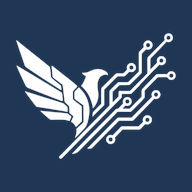
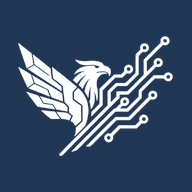
Swap in the updated MAIN Hub mark
- Trace the uploaded logo (Updatedlogo.webp) into the vector Mark
  component; file the source at public/brand/source/main-hub-mark.webp
- Regenerate transparent PNG marks, app icons and the share image

Claude-Session: https://claude.ai/code/session_01Y6wF1Et78M44JoR3L5cpxR

Changed region(s): [[0.0625, 0.1562, 0.9375, 0.8438], [0.3125, 0.375, 0.3438, 0.4062]]

diff --git a/src/components/brand/mark-path.ts b/src/components/brand/mark-path.ts
@@ -1,5 +1,5 @@
 // Vector path of the MAIN Hub eagle-and-circuit monogram.
-// Traced from the approved brand mark; viewBox is 0 0 1200 961.
-export const MARK_VIEWBOX = "0 0 1200 961";
+// Traced from the approved brand mark (public/brand/source/main-hub-mark.webp); viewBox is 0 0 1295 1022.
+export const MARK_VIEWBOX = "0 0 1295 1022";
 export const MARK_PATH =
-  "M343.3 935.9C336.2 933.9 333.8 925.4 338.5 918.9C339.9 917.0 361.4 895.0 386.3 870.0C425.6 830.5 497.7 757.4 661.2 591.4L701.9 550.1L702.2 496.7C702.5 449.0 702.7 443.1 704.2 440.9C706.1 437.9 754.1 390.2 761.3 384.1L766.1 380.0L798.3 380.0C816.0 380.0 832.3 379.7 834.5 379.3C838.1 378.8 841.9 375.4 876.8 340.6L915.0 302.5L915.0 235.0C915.0 191.0 915.4 166.2 916.1 163.7C916.8 160.9 921.1 155.7 932.3 143.9C951.4 123.7 951.1 124.0 949.8 117.0C946.7 100.4 955.4 84.8 970.7 79.0C983.7 74.1 999.6 78.2 1007.3 88.4C1013.0 95.8 1014.5 100.0 1014.5 109.0C1014.5 116.2 1014.1 118.4 1011.8 123.2C1004.8 138.1 992.2 144.3 974.0 141.7L968.5 141.0L954.2 155.0C945.9 163.1 939.3 170.4 938.5 172.4C937.2 175.4 937.0 186.4 937.0 241.7C937.0 303.7 936.8 307.7 935.1 311.5C933.8 314.2 919.7 329.0 891.9 356.6C869.1 379.2 849.4 398.3 848.0 399.1C846.0 400.2 838.4 400.6 812.0 400.8C793.6 400.9 777.4 401.3 776.1 401.6C773.3 402.2 727.1 447.1 725.3 450.9C723.8 454.1 723.5 520.7 725.0 523.0C725.8 524.3 726.2 524.3 728.2 523.0C729.5 522.2 738.9 513.0 749.1 502.5L767.7 483.5L768.3 466.5C769.0 447.9 769.4 445.5 771.8 444.5C772.8 444.1 790.4 443.8 811.0 443.9C839.2 444.0 849.0 443.7 850.6 442.7C851.8 442.1 865.1 428.9 880.0 413.5C895.0 398.1 922.1 370.9 940.2 353.0C958.3 335.1 974.0 319.1 975.0 317.5C976.9 314.6 977.0 312.4 977.0 260.5C977.0 198.1 976.3 203.0 987.6 191.5C991.5 187.7 1012.3 166.3 1034.0 144.1C1055.7 121.9 1080.1 96.9 1088.2 88.7C1096.4 80.4 1103.0 73.0 1103.0 72.2C1103.0 71.5 1102.3 68.3 1101.4 65.2C1096.9 49.7 1106.2 31.4 1121.2 26.4C1127.5 24.3 1139.9 24.8 1144.8 27.4C1157.2 33.9 1164.9 49.5 1162.0 62.5C1158.0 80.7 1139.9 91.5 1121.3 86.8C1116.7 85.7 1116.6 85.7 1113.7 89.1C1107.6 96.0 1060.9 144.5 1020.9 185.5C1011.2 195.4 1002.3 205.4 1001.1 207.7C999.1 211.8 999.0 213.1 999.0 249.0C999.0 270.4 999.4 286.0 999.9 286.0C1000.4 286.0 1011.4 275.0 1024.3 261.6L1047.8 237.2L1047.3 226.3C1046.8 216.7 1047.0 214.8 1048.8 210.6C1056.7 192.8 1076.4 185.2 1093.1 193.5C1104.6 199.3 1111.0 208.5 1111.8 220.6C1112.5 231.1 1110.3 237.5 1103.5 244.8C1094.6 254.4 1083.8 257.7 1071.0 254.6L1064.5 253.1L1035.0 282.8C984.3 333.8 924.7 396.1 920.9 401.9C916.4 408.8 862.6 462.4 858.5 464.1C856.4 465.0 845.7 465.5 824.5 465.7C797.5 466.1 793.3 466.4 792.2 467.8C791.5 468.8 791.0 472.8 790.9 478.4C790.9 483.4 790.4 489.0 789.7 490.9C788.9 493.1 776.7 506.0 752.5 530.4C732.7 550.2 699.8 583.4 679.5 604.0C659.1 624.6 623.8 660.4 601.0 683.5C563.2 721.8 497.4 788.9 451.5 836.0C404.8 884.0 355.3 933.8 353.5 934.7C350.1 936.4 346.6 936.8 343.3 935.9ZM430.5 901.0C429.3 899.1 520.4 805.9 684.0 641.8L751.5 574.1L757.8 573.4L764.0 572.7L781.8 554.2L799.5 535.8L799.5 524.1C799.5 513.3 799.7 512.1 802.4 506.7C810.4 490.9 828.8 484.3 844.8 491.5C869.2 502.4 869.0 538.4 844.6 549.6C838.7 552.3 832.7 552.8 823.0 551.6L816.5 550.8L807.2 560.4C802.0 565.6 798.0 570.5 798.2 571.2C798.6 572.2 804.3 572.6 823.5 572.8L848.4 573.0L890.8 530.8C914.7 506.9 933.8 487.1 934.6 485.3C935.7 482.8 936.0 476.7 936.0 460.0C936.0 443.7 936.4 437.1 937.4 434.7C939.0 430.8 944.3 425.1 998.6 368.4C1024.2 341.7 1042.2 323.7 1044.3 322.7C1047.4 321.2 1052.5 321.0 1084.8 321.0L1121.8 321.0L1124.8 315.7C1128.1 309.9 1132.6 305.9 1139.6 302.8C1146.7 299.7 1158.6 300.5 1166.5 304.5C1184.9 313.9 1188.2 340.2 1172.9 354.5C1166.1 360.9 1160.2 363.2 1151.0 363.4C1144.5 363.4 1142.8 363.1 1138.3 360.6C1132.7 357.5 1127.4 352.6 1123.7 347.0L1121.4 343.5L1087.7 343.5L1053.9 343.5L1036.2 361.5C1026.5 371.4 1004.9 393.3 988.3 410.1L958.0 440.6L958.0 463.6C958.0 476.2 957.6 488.2 957.1 490.2C956.5 492.7 953.7 496.8 948.5 502.7C933.8 519.3 861.1 592.7 857.6 594.4C854.6 595.8 848.6 596.0 807.3 596.0L760.4 596.0L701.5 655.8C669.1 688.6 618.7 739.6 589.5 769.0C560.4 798.5 522.8 836.6 506.0 853.8C484.8 875.6 473.3 886.6 468.3 890.0C460.9 894.9 450.1 899.1 439.6 900.9C432.2 902.3 431.3 902.3 430.5 901.0ZM541.0 862.3C541.0 861.3 593.4 807.9 693.6 706.7C732.2 667.7 759.3 641.1 761.6 640.0C765.2 638.1 767.8 638.0 813.5 638.0L861.6 638.0L889.1 610.2C904.2 595.0 925.5 573.3 936.5 562.0C947.5 550.7 966.0 531.8 977.6 520.0C1006.9 490.2 1011.3 485.2 1010.5 483.2C1004.2 466.7 1011.1 448.6 1026.5 441.0C1030.6 439.0 1033.1 438.5 1040.0 438.5C1047.3 438.5 1049.3 438.9 1054.2 441.3C1060.6 444.5 1064.8 448.7 1068.7 456.3C1071.1 460.8 1071.5 462.7 1071.5 470.0C1071.5 476.8 1071.1 479.4 1069.2 483.1C1065.9 489.8 1060.9 495.2 1054.9 498.5C1049.8 501.3 1048.9 501.5 1037.7 501.5L1025.8 501.6L1011.2 517.6C1003.1 526.5 986.8 543.6 975.0 555.6C963.2 567.6 941.8 589.4 927.5 604.0C913.2 618.6 895.4 636.7 888.0 644.4C880.6 652.0 873.1 658.9 871.3 659.6C868.7 660.7 858.6 661.0 819.0 661.0L770.0 661.0L767.2 663.8C760.0 670.6 661.4 770.7 624.5 808.5C602.0 831.6 581.6 852.4 579.3 854.7C572.2 861.8 570.2 862.4 554.8 862.8C547.1 863.0 541.0 862.8 541.0 862.3ZM699.7 828.6C691.1 825.4 684.0 818.5 679.7 809.3C676.4 802.1 676.7 790.3 680.2 783.5C683.5 777.3 689.5 771.0 695.7 767.3C699.9 764.8 701.5 764.5 709.0 764.5C713.7 764.5 719.2 764.9 721.4 765.3L725.3 766.1L737.4 753.8C744.1 747.0 757.9 732.8 768.1 722.2L786.5 703.0L792.5 702.0C795.8 701.4 820.0 701.0 847.0 701.0C873.7 701.0 899.7 701.0 904.7 701.0L914.0 701.0L928.2 686.4C945.3 669.0 946.1 667.9 944.9 663.6C943.3 658.1 943.9 648.4 946.1 642.3C949.0 634.4 957.4 626.1 965.6 623.0C981.0 617.2 1000.5 625.1 1007.3 639.9C1009.0 643.5 1009.5 646.4 1009.5 653.5C1009.5 661.3 1009.1 663.2 1006.7 668.2C1002.9 675.9 994.9 683.1 987.5 685.5C983.2 686.8 979.9 687.1 973.7 686.7C969.2 686.4 964.6 685.9 963.5 685.5C961.9 685.0 958.4 688.2 945.0 702.5C935.9 712.1 927.0 721.0 925.2 722.2C921.8 724.3 921.1 724.3 859.9 724.4L797.9 724.5L787.7 735.0C746.1 777.6 741.0 783.3 741.8 785.9C742.2 787.3 742.5 792.5 742.5 797.5C742.5 804.9 742.1 807.3 740.2 811.2C737.1 817.4 731.2 823.3 724.8 826.6C718.3 829.9 705.9 830.9 699.7 828.6ZM714.2 811.0C715.3 811.0 718.0 809.3 720.1 807.1C723.8 803.4 724.0 802.9 724.0 797.0C724.0 791.0 723.8 790.5 720.1 787.0C718.0 785.0 714.8 783.0 713.0 782.6C705.5 781.2 697.8 786.2 696.5 793.4C695.7 797.3 697.3 804.0 699.8 806.9C701.7 809.3 708.7 812.2 710.8 811.5C711.6 811.2 713.1 811.0 714.2 811.0ZM452.3 781.2C452.5 779.7 454.2 774.0 455.9 768.5C460.2 754.8 462.0 743.8 462.0 730.5L462.0 719.2L476.2 705.8C500.3 683.3 509.1 674.6 511.2 671.2C513.2 667.9 513.2 667.2 512.6 610.7C512.2 577.3 511.4 552.2 510.9 550.3C509.8 546.9 504.7 542.8 481.5 526.2C456.8 508.6 449.5 502.6 448.3 498.8C447.6 496.6 447.0 487.1 446.8 474.3C446.6 455.8 446.8 453.1 448.4 450.0C450.6 445.8 477.0 419.0 478.9 419.0C481.0 419.0 496.4 434.5 505.7 446.0C527.8 473.4 539.6 497.7 548.9 534.5C553.9 554.4 555.3 568.3 554.7 593.5C554.1 617.9 552.8 627.8 546.1 656.5C540.0 682.9 533.8 698.4 525.2 709.2C513.4 724.1 455.5 784.0 453.0 784.0C452.2 784.0 451.9 783.0 452.3 781.2ZM454.7 701.8C453.3 700.0 451.3 696.7 450.2 694.4C447.3 688.6 439.8 680.7 431.1 674.1C426.9 671.0 423.4 667.7 423.2 666.7C423.0 665.7 426.1 658.1 430.1 649.7C434.0 641.3 437.5 632.7 437.7 630.5L438.2 626.5L427.9 618.3C422.2 613.9 415.9 608.6 414.1 606.6L410.6 603.0L409.9 584.6C409.1 563.8 408.5 558.6 406.3 555.0C405.4 553.6 398.5 546.4 390.9 539.0C379.6 528.0 376.9 524.8 376.1 521.5C375.1 517.7 369.0 469.1 363.6 422.7C362.1 409.8 360.5 400.1 359.7 398.9C358.3 397.0 344.7 386.4 308.7 359.2C298.9 351.8 290.3 344.8 289.5 343.6C287.9 341.2 287.6 338.7 285.5 313.5C284.6 303.6 283.2 288.4 282.3 279.8C281.5 271.2 281.0 263.4 281.3 262.5C282.8 258.6 283.5 259.1 321.0 288.9C365.8 324.6 383.4 338.5 392.0 345.2C414.8 363.1 427.3 373.0 436.0 380.4C467.1 406.6 467.2 406.7 466.2 411.6C466.0 412.8 459.9 420.0 452.8 427.6C445.6 435.2 438.9 443.2 437.9 445.4C436.2 449.0 436.0 452.3 436.0 475.3C436.0 494.9 436.3 501.8 437.4 504.3C439.3 509.0 443.8 512.6 488.6 546.3C493.1 549.7 497.3 553.3 498.0 554.4C499.8 557.2 500.9 584.6 500.9 627.7L501.0 663.9L497.8 667.6C496.0 669.6 491.9 673.8 488.6 676.9C463.3 700.8 458.7 705.0 458.0 705.0C457.5 705.0 456.0 703.5 454.7 701.8ZM983.6 667.4C987.6 665.5 990.7 660.9 991.6 655.3C993.3 644.3 980.9 635.4 971.1 640.5C969.5 641.3 967.0 643.4 965.5 645.2C963.1 648.1 962.8 649.0 963.2 654.6C963.6 661.3 965.0 663.8 970.5 667.1C974.2 669.4 979.1 669.5 983.6 667.4ZM401.0 659.9C398.0 658.8 391.0 656.9 385.5 655.7C375.9 653.6 373.4 653.5 324.3 653.4L273.2 653.4L268.8 650.5C266.5 649.0 262.5 646.0 260.0 644.0C239.7 627.3 233.4 621.8 218.2 607.7C207.2 597.5 201.0 591.1 201.2 590.1C201.7 588.0 199.2 587.8 265.0 594.4C295.5 597.5 328.8 600.6 339.0 601.5C367.2 603.8 387.0 605.9 392.3 607.1C397.1 608.2 404.6 613.4 417.2 624.2C424.4 630.4 424.5 631.4 418.5 646.1C411.5 663.5 411.4 663.6 401.0 659.9ZM579.0 624.2C579.0 615.1 580.7 601.4 582.2 598.7C582.9 597.3 596.4 583.1 612.2 567.0L641.0 537.8L641.0 485.5C641.0 451.6 641.4 431.2 642.1 427.8C643.2 422.5 643.3 422.4 694.3 371.4C722.5 343.3 747.1 319.3 749.0 318.1C752.3 316.1 753.8 316.0 776.7 316.0L800.8 316.0L806.2 311.1C809.2 308.4 815.4 302.3 820.1 297.5L828.5 288.8L828.5 276.7C828.5 265.4 828.7 264.1 831.3 258.8C836.8 247.5 848.0 240.7 861.1 240.6C867.9 240.5 869.5 240.9 875.6 244.0C888.4 250.6 894.7 261.9 893.8 276.6C893.2 284.9 890.8 290.0 883.9 296.8C877.1 303.5 872.0 305.5 862.0 305.5C857.3 305.5 852.0 305.2 850.2 304.8C847.0 304.1 846.4 304.5 831.0 319.3C822.1 327.7 813.5 335.0 811.7 335.7C809.6 336.5 800.7 336.9 785.3 336.9L762.2 337.0L757.3 340.9C748.6 347.9 665.1 432.4 664.0 435.3C663.4 437.1 663.0 457.1 663.0 492.6L663.0 547.0L621.5 588.5C598.7 611.3 579.8 630.0 579.5 630.0C579.2 630.0 579.0 627.4 579.0 624.2ZM377.5 592.5C369.2 590.6 349.0 587.0 332.5 584.5C316.0 582.0 296.4 578.8 289.0 577.5C281.6 576.1 260.6 572.8 242.5 570.0C224.3 567.3 205.7 564.3 201.0 563.5C196.3 562.7 187.8 561.3 182.0 560.5C176.3 559.6 170.5 558.3 169.3 557.5C168.1 556.7 161.5 548.7 154.7 539.8C130.6 508.1 111.4 482.4 108.0 477.5C106.2 474.8 100.7 467.2 95.8 460.7C87.5 449.5 86.3 447.0 89.5 447.0C90.7 447.0 109.1 452.5 134.0 460.5C144.1 463.7 173.9 473.1 216.5 486.5C227.5 490.0 252.0 497.6 271.0 503.5C290.0 509.4 312.2 516.3 320.5 519.0C328.8 521.7 340.9 525.5 347.5 527.6C362.9 532.3 369.1 535.5 377.1 542.7C380.6 545.9 385.4 550.1 387.7 552.0C395.1 558.4 396.2 561.3 396.7 576.8C397.2 590.6 396.4 596.1 393.8 595.9C393.1 595.9 385.8 594.3 377.5 592.5ZM580.6 565.8C580.3 564.0 579.5 559.6 578.9 556.0C577.8 549.1 571.3 525.4 567.8 515.5C553.6 474.7 538.5 450.6 506.4 417.1C500.7 411.1 496.0 405.6 496.0 404.9C496.0 404.1 497.6 401.9 499.6 400.0C505.5 394.1 510.6 385.2 519.4 365.5C528.3 345.4 530.6 339.0 529.7 336.8C529.4 336.0 526.3 333.9 522.7 332.2C514.9 328.3 506.9 321.4 504.6 316.5C502.4 312.0 503.2 310.8 507.8 311.6C513.9 312.6 533.1 310.2 540.9 307.5C544.9 306.2 555.4 301.9 564.3 298.1C583.7 289.8 595.1 286.3 608.3 284.8C625.8 282.7 645.9 286.7 664.5 296.0C681.6 304.5 689.0 312.9 689.0 323.8C689.0 329.4 688.5 329.8 684.2 327.6C679.1 325.0 670.2 324.7 661.7 326.9C650.6 329.8 644.6 333.3 636.0 342.0C616.3 361.7 611.3 389.5 618.1 440.5C620.8 460.8 621.0 483.7 618.7 496.7C614.3 521.1 602.3 546.8 587.4 563.8C584.9 566.6 582.5 569.0 582.0 569.0C581.5 569.0 580.9 567.5 580.6 565.8ZM837.7 533.3C842.4 531.1 845.0 526.7 845.0 520.7C845.0 511.8 840.0 506.0 832.3 506.0C825.0 506.0 819.7 509.8 817.9 516.3C816.6 521.2 817.5 525.2 820.8 529.2C825.5 534.8 831.6 536.3 837.7 533.3ZM338.5 510.6C275.2 487.0 218.1 464.8 147.0 436.3C125.8 427.8 106.6 419.8 104.4 418.5C102.1 417.2 98.9 414.5 97.1 412.5C93.8 408.7 84.6 391.0 75.5 371.0C72.6 364.7 61.1 339.2 49.8 314.5C27.5 265.5 25.8 261.5 26.7 260.6C28.2 259.1 31.8 260.3 38.4 264.6C45.0 268.8 112.0 309.1 130.9 320.2C135.5 322.9 145.4 328.8 152.9 333.4C160.4 338.0 171.4 344.7 177.5 348.2C195.9 359.0 283.4 412.0 300.5 422.6C309.3 428.1 322.8 436.4 330.5 440.9C346.1 450.2 354.4 456.1 355.9 458.9C356.5 459.9 357.4 463.9 358.0 467.6C359.2 475.9 362.0 505.7 362.0 510.4C362.0 514.1 359.9 517.0 357.2 516.9C356.3 516.9 347.9 514.0 338.5 510.6ZM1047.8 483.0C1055.7 478.2 1056.1 462.6 1048.5 457.6C1041.8 453.2 1031.3 456.0 1027.7 463.0C1024.1 469.9 1026.6 479.4 1033.0 483.4C1036.6 485.6 1043.8 485.4 1047.8 483.0ZM345.0 435.3C344.2 434.9 335.0 429.0 324.5 422.1C314.1 415.2 298.4 405.0 289.7 399.5C242.8 369.7 152.6 310.5 119.9 288.0C96.9 272.1 91.6 267.9 88.5 263.2C84.9 257.7 25.0 83.9 25.0 78.8C25.0 76.1 26.8 75.7 29.8 77.6C31.3 78.6 37.5 83.5 43.5 88.5C49.5 93.6 69.6 109.7 88.0 124.4C106.4 139.2 127.6 156.1 135.0 162.0C142.4 168.0 155.2 178.2 163.5 184.7C180.6 198.2 217.2 227.6 259.8 262.1C263.2 264.9 266.6 268.3 267.4 269.8C269.5 273.9 270.9 283.8 275.0 322.9C276.1 333.5 277.7 343.7 278.4 345.5C279.9 349.1 286.1 354.6 308.5 372.5C334.5 393.2 346.5 403.1 347.8 405.0C349.7 407.6 352.2 430.3 351.0 433.5C350.1 435.9 348.2 436.5 345.0 435.3ZM1157.7 345.1C1163.4 342.5 1165.3 338.5 1164.8 330.8C1164.4 325.8 1163.9 324.4 1161.2 321.7C1158.2 318.8 1157.4 318.5 1151.4 318.5C1145.1 318.5 1144.7 318.6 1141.4 322.2C1134.3 330.0 1137.6 343.1 1147.4 345.9C1152.0 347.2 1153.1 347.1 1157.7 345.1ZM868.7 285.9C873.0 283.2 875.0 279.3 875.0 273.4C875.0 264.9 869.5 259.0 861.5 259.0C855.4 259.0 851.4 261.2 849.0 266.0C842.1 279.5 856.1 293.6 868.7 285.9ZM1086.6 234.9C1092.7 231.2 1094.9 221.6 1091.0 215.3C1087.3 209.2 1078.8 207.2 1072.1 210.8C1064.2 215.0 1062.7 226.0 1069.1 232.6C1074.5 238.1 1080.0 238.9 1086.6 234.9ZM989.9 122.3C1001.3 113.7 996.8 96.9 982.7 95.3C976.4 94.6 971.7 97.5 969.4 103.5C965.2 114.6 972.3 125.7 982.9 124.7C985.3 124.4 988.4 123.3 989.9 122.3ZM1137.0 69.5C1146.2 64.7 1147.5 52.2 1139.5 45.1C1127.8 34.9 1111.1 51.5 1119.6 64.8C1123.2 70.3 1131.2 72.5 1137.0 69.5Z";
+  "M370.4 980.6C365.2 977.9 362.6 974.2 363.3 970.4C363.4 969.2 363.9 967.8 364.2 967.2C364.6 966.7 369.4 961.6 375.0 956.0C380.6 950.4 391.5 939.1 399.2 931.0C406.9 922.9 417.8 911.7 423.4 906.0C429.0 900.4 438.1 891.1 443.6 885.5C449.1 879.9 500.1 828.6 556.9 771.5C650.7 677.4 682.6 645.4 721.2 606.5C728.4 599.3 735.9 591.9 737.9 590.1C739.9 588.3 741.9 586.2 742.3 585.4C742.9 584.2 743.0 576.1 743.0 529.4C743.0 475.8 743.0 474.8 744.0 472.8C744.9 470.8 761.1 454.3 770.0 446.2C778.6 438.3 802.7 414.8 804.0 412.9C804.6 412.2 806.0 411.0 807.2 410.3L809.4 409.0L844.3 409.0C866.1 409.0 879.9 408.8 881.0 408.5C882.2 408.2 884.9 406.1 888.8 402.6C896.0 396.1 960.5 331.8 961.7 329.9C962.5 328.6 962.6 326.1 962.6 290.4C962.5 269.4 962.7 237.5 963.0 219.4L963.4 186.6L964.8 184.0C967.6 178.8 975.9 169.8 992.1 154.1C995.6 150.7 998.8 147.2 999.2 146.2C1000.0 144.6 1000.0 144.4 999.0 141.6C996.6 134.9 997.2 126.3 1000.4 119.0C1002.2 114.7 1007.7 106.9 1010.2 104.8C1014.5 101.3 1022.5 98.3 1029.2 97.7C1038.4 96.8 1050.5 101.5 1056.9 108.3C1063.8 115.6 1066.4 122.8 1065.9 133.6C1065.6 140.6 1064.3 144.7 1061.2 149.4C1055.9 157.2 1049.5 162.0 1041.0 164.4C1037.4 165.4 1025.8 165.5 1021.9 164.6C1019.2 163.9 1019.1 163.9 1016.6 165.2C1013.8 166.8 1002.4 177.8 996.8 184.5C987.7 195.2 986.4 196.9 986.0 198.5C985.7 199.6 985.5 226.4 985.5 270.2L985.5 340.2L976.6 349.0C971.7 353.8 951.7 373.9 932.0 393.7C912.3 413.4 895.3 430.2 894.1 430.8L892.0 432.1L855.9 432.3L819.8 432.5L817.9 433.7C815.9 434.8 790.3 459.5 782.0 468.2C779.4 471.0 775.3 475.1 772.9 477.4C765.9 484.1 766.5 481.1 766.6 513.8C766.6 529.2 766.4 545.4 766.2 549.8C765.7 561.9 765.4 561.9 778.9 548.9C793.8 534.6 809.5 518.4 810.5 516.5C811.3 515.0 811.5 512.4 812.0 496.0C812.5 481.4 812.7 477.0 813.3 476.1C813.9 475.2 814.5 475.0 817.1 475.0C818.8 475.0 837.0 475.0 857.5 475.0C887.4 475.0 895.0 474.9 895.9 474.3C898.5 472.9 944.7 426.9 964.1 406.5C968.9 401.4 981.7 388.6 992.5 378.0C1014.1 356.7 1024.8 345.5 1026.1 342.5C1027.0 340.7 1027.0 337.6 1026.5 284.8C1026.1 240.4 1026.1 228.6 1026.6 226.9C1027.3 224.5 1028.6 223.2 1110.6 141.1C1136.9 114.7 1158.8 92.6 1159.2 91.8C1160.0 90.7 1160.0 90.2 1159.5 87.1C1159.1 85.0 1159.0 80.7 1159.1 75.2C1159.3 67.7 1159.5 66.4 1160.5 64.0C1163.6 56.9 1169.7 49.9 1175.6 46.9C1181.7 43.9 1185.7 42.9 1192.5 42.8C1201.4 42.8 1207.0 44.3 1213.1 48.3C1218.8 52.2 1221.9 56.1 1225.3 63.5C1227.1 67.7 1227.2 67.9 1227.4 75.1C1227.6 81.1 1227.5 83.3 1226.8 86.1C1223.7 98.6 1213.9 108.0 1201.2 110.5C1197.6 111.2 1186.6 110.9 1181.9 110.0C1176.3 108.9 1186.2 99.6 1094.0 191.6C1069.8 215.7 1050.7 235.2 1050.3 236.0C1049.8 237.2 1049.7 245.5 1049.9 276.2C1050.1 317.4 1050.1 317.0 1052.5 317.0C1054.1 317.0 1105.7 265.0 1106.5 262.7C1107.0 261.2 1106.9 260.4 1105.9 257.4C1105.0 254.3 1104.8 252.7 1104.8 247.2C1104.9 240.7 1104.9 240.7 1106.9 236.1C1113.6 220.9 1123.9 214.0 1139.9 214.0C1150.0 214.0 1157.6 217.0 1164.0 223.5C1170.1 229.6 1172.8 235.2 1174.0 244.1C1175.5 254.6 1172.2 264.8 1164.9 272.2C1161.8 275.4 1160.4 276.3 1155.5 278.7C1148.3 282.1 1145.9 282.7 1138.0 282.7C1133.2 282.7 1131.3 282.6 1129.6 281.9C1128.4 281.4 1126.6 281.0 1125.5 281.0C1122.5 281.0 1119.6 283.7 1092.2 312.0C1086.2 318.2 1077.5 326.8 1073.0 331.1C1068.5 335.4 1043.9 359.9 1018.5 385.6C938.8 466.1 907.8 496.7 904.8 498.4C903.4 499.2 900.3 499.3 871.5 499.4C854.0 499.4 839.2 499.6 838.6 499.8C836.5 500.2 836.2 502.0 835.8 514.2C835.5 522.2 835.2 526.1 834.8 527.0C834.1 528.3 830.9 531.5 822.2 539.6C819.4 542.1 796.3 565.3 770.7 591.0C707.8 654.2 698.6 663.5 685.5 676.3C679.3 682.3 667.2 694.6 658.7 703.5C650.1 712.4 638.4 724.4 632.7 730.0C614.9 747.6 600.8 761.7 570.8 792.3C554.9 808.5 532.7 830.8 521.5 841.8C489.0 873.8 419.7 943.8 400.6 963.8C390.2 974.6 387.9 976.8 383.6 979.5C381.1 981.1 380.5 981.3 376.5 981.4C373.2 981.5 371.9 981.3 370.4 980.6ZM460.8 946.7C460.6 946.5 460.5 945.8 460.5 945.2C460.5 944.2 461.3 943.4 471.0 934.2C473.1 932.3 476.0 929.4 477.5 927.7C480.4 924.5 492.7 911.5 503.5 900.2C507.2 896.3 516.2 887.3 523.4 880.2C530.7 873.1 540.9 862.9 546.2 857.5C558.5 844.9 579.2 824.3 596.5 807.2C604.1 799.8 616.9 786.9 625.0 778.5C633.1 770.2 642.4 760.7 645.7 757.5C653.9 749.6 670.3 733.2 684.8 718.5C691.4 711.8 701.7 701.6 707.8 695.9C713.9 690.2 724.7 679.6 731.8 672.2C745.5 658.1 767.5 635.9 783.0 620.7C793.5 610.4 794.8 609.5 800.2 609.5C802.6 609.5 804.3 609.2 805.7 608.5C807.5 607.7 819.7 595.5 828.6 585.6C829.6 584.6 833.1 581.6 836.5 579.0C844.0 573.3 844.4 572.6 843.6 567.1C842.8 562.3 842.8 552.6 843.5 548.7C844.5 543.7 847.4 538.3 851.7 533.6C859.4 525.4 867.2 522.0 878.5 522.0C881.9 522.0 885.2 522.3 886.5 522.7C892.7 524.6 900.6 529.3 903.1 532.6C907.8 538.8 911.6 551.8 910.7 558.7C910.5 560.1 909.4 562.9 908.1 565.5C901.9 577.2 892.3 586.8 884.8 588.7C880.9 589.7 871.0 589.7 865.9 588.8C863.0 588.2 861.6 588.2 860.6 588.5C859.9 588.8 855.4 592.9 850.6 597.7C841.8 606.4 840.9 607.9 843.0 609.0C844.6 609.9 891.7 609.7 893.4 608.8C894.1 608.4 899.1 603.7 904.4 598.4C938.5 564.1 953.6 549.1 966.5 536.5C984.7 518.8 983.8 519.8 985.4 516.6L986.7 513.9L987.0 491.3C987.3 466.7 987.4 466.3 990.3 462.8C991.1 461.9 1003.3 449.5 1017.5 435.3C1031.7 421.2 1049.0 403.9 1055.9 396.9C1062.9 390.0 1076.7 376.2 1086.4 366.4L1104.3 348.6L1108.0 348.3C1110.1 348.1 1128.1 348.0 1148.1 348.1L1184.4 348.2L1185.6 347.1C1186.3 346.5 1187.5 344.7 1188.3 343.2C1190.3 339.3 1196.4 333.7 1201.4 331.1C1208.4 327.4 1216.3 326.0 1223.3 327.0C1232.9 328.4 1239.5 332.2 1245.5 339.7C1250.5 346.1 1252.6 352.3 1252.6 360.8C1252.6 366.8 1252.1 368.8 1249.1 375.0C1244.9 383.7 1235.6 391.5 1227.3 393.3C1223.4 394.2 1213.0 394.1 1209.5 393.3C1202.2 391.6 1194.8 386.0 1188.4 377.5C1186.9 375.4 1185.3 373.4 1184.9 373.1C1184.4 372.7 1175.1 372.5 1150.2 372.4C1111.3 372.2 1115.7 371.7 1110.0 377.5C1108.2 379.3 1100.6 386.6 1093.1 393.8C1074.9 411.0 1031.7 454.4 1015.2 472.0C1009.9 477.6 1010.3 475.4 1010.1 502.0C1010.0 516.4 1009.8 525.7 1009.5 526.5C1009.2 527.2 1003.3 533.3 996.4 540.0C989.5 546.8 982.8 553.4 981.6 554.7C980.3 556.1 964.6 571.8 946.7 589.7C928.9 607.6 912.1 624.5 909.6 627.3C905.3 632.0 904.8 632.4 902.4 632.9C900.4 633.4 887.2 633.5 852.1 633.5C797.9 633.4 803.3 633.0 799.1 637.9C797.9 639.2 752.4 684.9 697.9 739.5C643.4 794.1 590.6 847.0 580.8 857.2C519.8 919.4 503.2 935.1 494.9 938.3C492.9 939.0 489.9 940.2 488.2 940.8C481.8 943.4 473.6 945.9 470.2 946.5C466.1 947.1 461.3 947.2 460.8 946.7ZM585.5 907.1C576.8 907.0 575.0 906.7 575.0 905.4C575.0 904.6 579.7 899.9 587.4 893.2C591.5 889.5 595.1 886.2 595.4 885.8C596.5 883.7 665.6 813.3 696.9 782.3C705.3 774.0 725.2 754.2 741.2 738.3C757.2 722.4 771.7 708.1 773.5 706.6C775.3 705.0 782.8 697.6 790.2 690.2C797.7 682.7 804.5 676.2 805.4 675.8C806.8 675.1 807.5 675.0 809.3 675.5C810.8 675.8 826.3 676.0 858.6 676.0L905.8 676.0L908.3 674.4C911.0 672.7 913.4 670.3 935.1 648.0C943.3 639.6 954.6 628.1 960.3 622.5C966.1 616.9 973.2 609.7 976.2 606.5C979.2 603.3 987.8 594.7 995.2 587.2C1011.3 571.1 1034.8 547.3 1039.9 541.9C1041.9 539.8 1048.2 533.6 1054.0 528.2C1060.1 522.4 1064.7 517.7 1064.8 517.0C1065.0 516.4 1064.9 514.9 1064.5 513.8C1062.2 506.0 1063.0 495.3 1066.5 488.5C1067.9 485.8 1072.9 479.6 1075.7 477.1C1082.2 471.4 1094.5 468.8 1104.7 470.9C1116.9 473.5 1125.3 480.7 1129.3 491.8C1131.4 497.6 1131.7 508.7 1129.9 514.8C1128.7 518.7 1126.1 523.9 1124.2 526.0C1121.7 528.8 1115.0 533.8 1111.8 535.3C1105.8 538.0 1094.6 539.0 1088.2 537.3C1084.0 536.2 1081.9 536.3 1080.2 537.6C1077.7 539.4 1008.6 608.1 997.2 620.0C993.9 623.4 984.9 632.4 977.2 640.0C969.5 647.6 962.0 655.1 960.5 656.8C959.0 658.4 951.7 666.0 944.2 673.8C936.8 681.5 928.9 689.7 926.8 692.0C924.7 694.3 921.8 697.0 920.4 698.0L917.9 699.8L909.6 700.0C905.0 700.2 881.8 700.4 858.0 700.4L814.8 700.5L811.5 702.7C809.5 704.1 799.6 713.8 785.0 728.6C772.2 741.5 727.8 786.2 686.2 827.8C611.4 902.7 610.7 903.5 607.0 905.2C602.7 907.2 600.7 907.4 585.5 907.1ZM745.7 873.5C739.4 872.6 734.7 870.3 729.0 865.6C721.8 859.5 718.1 852.8 717.2 844.0C716.7 838.9 718.1 830.5 720.2 826.2C725.3 815.9 735.0 807.9 744.9 805.8C749.6 804.8 757.1 804.8 760.3 805.7C766.2 807.5 768.2 806.5 776.5 797.2C779.6 793.7 785.8 787.4 790.1 783.1C797.8 775.5 807.0 766.3 823.8 749.2L831.8 741.1L837.0 740.9C839.9 740.7 868.3 740.7 900.0 740.9L957.8 741.1L960.4 739.8C962.9 738.5 965.8 735.7 986.2 714.8C989.9 710.9 993.2 707.2 993.3 706.5C993.5 705.8 993.4 704.0 993.1 702.5C991.7 696.2 991.4 693.5 991.7 688.5C992.0 683.5 992.1 683.0 994.3 678.8C997.7 671.8 1005.5 663.5 1010.8 661.0C1018.2 657.5 1029.9 657.2 1038.6 660.3C1046.6 663.1 1055.2 671.5 1057.9 679.1C1059.8 684.8 1060.2 686.9 1060.2 693.0C1060.3 700.3 1059.7 703.1 1056.9 709.0C1054.0 715.0 1049.1 719.9 1042.5 723.2C1035.9 726.5 1029.5 727.2 1017.4 725.9C1012.7 725.5 1011.9 725.5 1010.3 726.3C1007.6 727.5 1001.5 733.4 992.2 743.8C982.9 754.1 973.9 763.0 971.6 764.2C970.1 765.0 964.9 765.0 906.5 765.0C852.3 765.0 842.8 765.1 841.6 765.7C840.0 766.5 813.5 793.1 803.2 804.3C791.8 816.6 787.5 821.3 785.6 823.7C783.7 826.2 783.7 826.5 785.0 832.8C786.3 839.1 784.9 849.0 781.7 855.0C774.2 869.3 761.5 875.8 745.7 873.5ZM755.8 852.8C759.2 851.8 762.7 848.7 763.8 845.6C764.4 844.1 764.7 841.9 764.7 839.0C764.7 835.2 764.6 834.5 763.2 832.0C760.4 826.9 755.8 825.0 748.4 825.6C741.1 826.3 736.4 832.5 737.1 840.5C738.0 849.8 746.7 855.5 755.8 852.8ZM483.6 826.7C482.6 826.2 482.9 823.9 484.5 820.5C487.8 813.7 490.3 804.1 492.6 790.2C493.8 782.8 494.1 770.8 493.3 764.7C492.9 762.0 493.0 761.4 493.9 759.9C495.2 757.9 502.7 750.5 514.2 740.0C530.3 725.3 545.4 710.4 546.1 708.5C546.6 707.1 546.7 694.5 546.5 646.8C546.3 613.8 546.0 586.1 545.8 585.4C545.1 583.2 543.0 581.3 528.2 570.3C525.2 568.0 519.6 564.0 515.8 561.3C512.0 558.6 506.8 554.8 504.3 552.8C501.8 550.8 496.9 547.2 493.5 544.8C484.8 538.6 480.6 535.2 479.8 533.6C479.3 532.5 479.1 527.1 478.9 507.9C478.6 485.4 478.6 483.5 479.5 482.2C482.2 477.6 510.5 449.1 512.3 449.0C514.8 449.0 540.7 478.1 550.1 491.7C558.1 503.1 570.4 524.8 573.0 532.2C573.5 533.6 575.0 537.3 576.3 540.5C580.5 550.9 585.3 568.4 586.9 579.8C591.6 611.3 591.6 612.1 591.6 625.5C591.6 635.9 590.9 644.8 589.3 655.3C588.9 658.0 588.4 661.1 588.2 662.2C587.8 664.9 583.7 686.3 582.2 693.8C579.7 705.6 578.9 709.3 577.9 711.8C577.3 713.1 576.4 716.1 575.7 718.3C575.0 720.5 573.5 724.7 572.3 727.6C571.1 730.4 569.5 734.5 568.8 736.6C566.7 742.3 563.4 746.8 554.9 755.4C550.7 759.7 542.9 768.0 537.7 773.8C528.4 784.0 485.4 827.0 484.6 827.0C484.4 826.9 484.0 826.8 483.6 826.7ZM486.6 741.6C485.5 739.8 483.8 736.7 482.8 734.8C477.5 725.2 468.6 716.4 458.8 711.0C454.2 708.5 454.1 708.4 453.6 706.9C453.2 705.9 453.3 705.1 454.2 703.2C454.8 701.8 455.8 699.3 456.4 697.6C457.6 694.1 460.9 687.3 462.8 684.5C463.5 683.5 464.4 681.6 464.9 680.2C465.5 678.9 466.9 675.2 468.2 672.1C471.0 665.2 471.0 665.1 464.4 660.1C448.7 648.2 441.5 641.6 440.5 638.4C439.9 636.7 439.7 632.4 439.7 618.2C439.7 593.9 439.3 592.1 431.8 584.8C429.6 582.6 422.9 576.0 417.1 570.2C411.2 564.5 406.2 559.3 405.9 558.9C405.4 557.9 405.0 555.0 403.5 541.0C402.1 528.1 400.0 510.4 399.8 509.5C399.6 509.1 399.2 504.8 398.7 500.0C398.3 495.2 397.1 486.7 396.2 481.1C395.3 475.5 394.4 469.1 394.2 466.8C394.1 464.6 393.6 460.2 393.2 457.0C392.9 453.8 392.3 449.3 392.0 447.0C391.7 444.7 391.4 440.5 391.2 437.8C390.7 430.4 390.4 429.9 379.2 421.5C371.9 415.9 366.8 411.9 358.2 405.0C354.9 402.4 349.7 398.3 346.5 396.0C343.3 393.7 338.6 390.1 335.9 388.0C333.2 385.9 330.0 383.5 328.6 382.5C327.3 381.6 324.0 378.8 321.2 376.4C315.4 371.4 314.8 370.2 314.3 364.0C313.9 359.8 313.4 355.2 312.0 342.8C311.5 338.1 310.7 329.2 310.2 323.0C309.5 312.9 308.3 301.1 307.0 291.2C306.3 286.2 306.4 284.7 307.3 284.3C308.7 283.8 312.2 286.0 317.5 290.8C323.8 296.5 335.7 306.3 340.7 309.8C342.7 311.2 346.1 313.8 348.3 315.6C350.5 317.4 355.4 321.2 359.2 324.1C363.1 327.0 367.9 330.8 370.0 332.4C374.1 335.8 380.4 340.7 388.2 346.8C391.1 348.9 396.2 353.1 399.6 355.9C403.0 358.7 410.9 365.1 417.1 370.1C423.4 375.1 430.6 380.9 433.1 382.9C435.7 385.0 440.9 389.2 444.7 392.4C448.5 395.6 452.2 398.7 452.9 399.2C453.7 399.8 457.2 402.6 460.7 405.5C464.3 408.4 468.7 412.0 470.7 413.4C474.7 416.5 481.3 422.0 486.4 426.6C488.3 428.3 492.2 431.9 495.2 434.5C500.9 439.5 501.4 440.5 499.7 443.0C497.0 446.9 490.0 454.9 482.2 463.0C470.0 475.7 467.7 478.7 467.2 482.2C467.0 483.8 467.0 496.8 467.1 511.2C467.3 540.9 466.9 537.9 471.9 542.8C473.5 544.3 475.8 546.3 477.0 547.1C478.2 548.0 481.3 550.4 483.8 552.4C486.2 554.5 489.9 557.3 492.0 558.6C494.1 560.0 497.7 562.7 500.0 564.5C502.3 566.3 506.7 569.4 509.8 571.5C518.2 577.2 532.4 587.9 533.2 589.1C534.3 590.9 535.0 702.7 533.8 704.8C532.8 706.8 524.0 715.3 513.2 724.8C508.3 729.1 501.4 735.4 498.0 738.8C490.1 746.6 489.5 746.7 486.6 741.6ZM1033.7 705.3C1038.5 703.1 1041.0 699.5 1041.8 693.5C1042.8 686.1 1036.3 678.9 1027.9 678.1C1022.0 677.6 1017.7 680.2 1014.5 686.1C1012.9 688.9 1012.8 689.6 1012.8 693.3C1012.8 697.1 1012.8 697.5 1014.6 700.1C1018.9 706.6 1026.5 708.6 1033.7 705.3ZM437.1 700.7C435.9 700.1 433.3 699.1 431.3 698.5C429.4 698.0 426.1 697.1 424.0 696.5C413.0 693.5 398.8 691.5 388.4 691.5L381.3 691.5L378.0 688.1C376.2 686.2 372.9 682.1 370.8 678.9C368.6 675.7 364.3 669.7 361.3 665.5C346.5 644.8 343.0 639.0 343.8 636.4C344.2 635.2 344.9 635.2 360.8 637.0C366.0 637.6 373.2 638.2 376.8 638.5C380.3 638.7 387.1 639.4 391.8 639.9C396.4 640.5 402.7 641.2 405.8 641.5C408.8 641.8 412.4 642.3 413.8 642.5C415.1 642.8 418.6 643.5 421.5 644.0C426.6 645.0 426.9 645.2 431.7 648.6C436.0 651.7 446.9 660.2 454.1 666.0C456.5 668.0 456.5 669.2 454.3 673.8C453.3 675.7 451.8 678.9 451.0 681.0C449.4 684.7 448.7 686.3 445.6 693.0C444.8 694.8 443.8 697.2 443.5 698.4C442.8 700.6 441.4 702.0 440.0 702.0C439.6 702.0 438.3 701.4 437.1 700.7ZM301.8 691.2C296.7 690.8 296.1 690.6 292.3 687.1C288.7 683.8 282.9 678.9 274.2 671.9C264.0 663.8 257.7 658.6 256.5 657.4C255.8 656.7 253.2 654.4 250.7 652.2C248.2 650.0 243.7 646.0 240.7 643.2C237.7 640.5 232.5 635.8 229.1 632.9C223.9 628.3 223.0 627.2 223.0 626.0C223.0 625.2 223.2 624.4 223.5 624.3C223.7 624.1 226.2 624.3 228.9 624.7C231.5 625.1 237.6 625.7 242.2 626.0C250.2 626.5 254.5 626.9 266.0 628.0C268.6 628.3 273.2 628.7 276.2 629.0C288.5 630.1 293.0 630.6 298.2 631.2C301.3 631.6 309.1 632.4 315.8 633.0C322.4 633.6 328.3 634.3 329.1 634.6C331.0 635.3 333.3 637.9 336.7 643.2C339.8 648.0 343.5 653.5 350.0 662.8C352.0 665.5 355.3 670.4 357.5 673.6C361.4 679.4 362.5 681.0 366.1 685.8C368.2 688.7 368.4 689.5 367.1 690.7C366.3 691.4 363.4 691.5 335.2 691.4C318.2 691.4 303.1 691.2 301.8 691.2ZM613.7 669.2C613.5 668.8 613.6 666.2 613.9 663.6C614.3 660.9 614.9 654.8 615.3 650.0C616.5 635.3 617.1 633.7 624.3 627.4C629.9 622.5 674.3 578.2 676.3 575.5C677.0 574.5 678.1 572.7 678.7 571.5C679.7 569.3 679.7 568.7 679.9 512.4C680.1 461.0 680.2 455.4 680.9 454.0C681.9 452.2 690.2 443.8 709.0 425.5C716.8 417.9 725.0 409.9 727.2 407.6C737.3 397.2 742.9 391.7 758.8 376.2C781.9 353.8 791.3 345.0 793.5 344.1C795.0 343.4 798.6 343.2 820.2 343.0C840.3 342.8 845.5 342.6 846.5 342.1C850.9 339.6 864.3 326.5 870.9 318.1C873.8 314.3 874.2 313.0 873.3 307.9C872.4 302.9 872.9 293.5 874.3 289.4C877.5 279.7 885.8 271.3 895.8 267.7C899.5 266.3 900.1 266.3 907.5 266.3C914.7 266.3 915.5 266.4 919.0 267.7C924.6 269.8 926.1 270.7 929.4 273.8C946.0 289.2 946.2 310.5 929.9 325.8C926.2 329.2 922.4 332.0 921.4 332.0C921.0 332.0 919.6 332.4 918.2 332.9C913.9 334.6 907.7 335.1 902.6 334.2C900.2 333.8 897.0 333.3 895.4 333.2L892.6 332.9L886.4 338.6C883.0 341.7 876.3 348.1 871.5 352.8C861.8 362.4 861.2 362.9 858.0 364.6L855.8 365.8L830.5 366.0C810.5 366.2 805.0 366.4 804.0 366.9C802.6 367.7 795.0 375.0 777.5 392.5C771.3 398.7 756.8 413.0 745.2 424.4C733.7 435.8 721.7 447.9 718.5 451.4C715.3 454.8 711.0 459.4 708.9 461.5C706.8 463.6 704.7 466.0 704.3 466.6C703.5 467.8 703.4 472.9 703.2 523.7C703.1 564.2 702.9 580.1 702.5 581.6C701.9 583.5 699.4 586.3 682.3 603.2C671.5 614.0 652.3 633.4 639.6 646.4C616.0 670.4 614.6 671.7 613.7 669.2ZM418.8 631.6C416.9 630.8 412.6 629.8 404.8 628.4C403.1 628.1 400.2 627.6 398.2 627.2C391.5 625.7 378.8 623.5 358.5 620.3C353.0 619.4 345.8 618.1 344.1 617.7C343.5 617.6 341.9 616.5 340.6 615.4C337.3 612.3 323.2 590.6 319.5 582.8C317.2 578.0 314.2 576.0 308.2 575.3C306.6 575.1 303.3 574.5 301.0 573.9C298.7 573.4 293.7 572.4 290.0 571.7C286.3 571.1 281.3 570.2 279.0 569.8C273.8 568.8 252.1 565.7 247.2 565.2C245.3 565.1 243.1 564.6 242.4 564.2C241.1 563.5 237.0 558.6 237.0 557.8C237.0 557.6 236.0 555.9 234.8 554.0C233.6 552.2 232.5 550.2 232.3 549.7C231.6 547.5 224.2 534.6 222.2 532.1C220.1 529.4 211.0 515.1 211.0 514.3C211.0 513.3 212.8 513.0 215.2 513.5C223.3 515.4 235.0 518.4 238.8 519.6C244.2 521.3 244.5 521.4 253.0 524.0C256.7 525.1 260.5 526.4 261.4 526.8C262.3 527.2 266.3 528.3 270.3 529.3C274.2 530.2 280.4 532.0 284.0 533.3C287.6 534.5 292.2 535.9 294.1 536.5C301.2 538.3 322.3 544.9 328.0 546.9C330.8 547.9 334.0 549.0 341.0 551.0C346.1 552.6 350.8 554.1 356.8 556.3C359.5 557.2 363.2 558.5 365.0 559.1C366.8 559.6 369.9 560.7 372.0 561.3C374.1 562.0 377.3 563.0 379.2 563.5C385.4 565.1 389.1 566.5 395.5 569.6C401.5 572.6 402.0 573.0 409.0 579.7C413.0 583.6 418.0 588.3 420.2 590.2C422.3 592.2 424.7 594.8 425.4 596.0L426.8 598.2L426.8 614.2C426.8 632.7 426.8 632.5 423.1 632.5C421.8 632.4 419.9 632.0 418.8 631.6ZM322.5 614.2C321.8 614.1 319.4 613.8 317.2 613.5C310.7 612.7 302.3 611.5 301.5 611.3C301.1 611.1 297.7 610.7 294.0 610.2C290.3 609.8 285.0 608.9 282.2 608.3C279.5 607.6 274.8 606.8 271.8 606.5C266.1 605.9 261.8 605.3 257.0 604.5C251.5 603.5 244.6 602.5 240.2 602.0C237.8 601.7 232.2 600.8 227.8 600.0C223.3 599.2 217.7 598.3 215.2 598.0C210.7 597.5 208.1 597.0 202.8 596.0C201.1 595.7 198.4 595.3 196.9 595.0C192.9 594.4 191.2 593.3 188.1 589.2C186.6 587.3 183.9 583.7 182.0 581.2C175.1 572.3 167.7 562.4 163.5 556.7C159.1 550.6 154.8 545.2 149.1 538.1C147.3 535.8 145.0 532.9 144.2 531.6C143.3 530.4 141.8 528.5 140.9 527.5C139.9 526.6 138.3 524.5 137.2 523.0C136.1 521.5 131.5 515.4 127.1 509.4C122.6 503.4 117.6 496.3 115.9 493.6C114.1 490.9 111.2 487.0 109.4 485.0C105.9 481.3 105.4 480.1 106.7 479.0C107.3 478.5 108.2 478.6 111.4 479.7C113.5 480.4 117.0 481.4 119.2 482.0C121.5 482.6 124.4 483.6 125.8 484.2C127.1 484.9 129.4 485.7 130.8 486.0C132.1 486.3 134.8 487.1 136.8 487.7C138.7 488.4 141.3 489.2 142.5 489.5C146.3 490.4 148.6 491.1 152.8 492.5C154.9 493.3 159.0 494.6 161.8 495.5C172.1 498.7 178.8 501.0 186.7 504.2C189.1 505.2 191.4 506.0 191.8 506.0C193.1 506.0 197.8 508.4 199.7 510.0C200.7 510.9 202.5 513.4 203.5 515.5C204.6 517.5 206.8 521.3 208.3 523.8C209.9 526.2 212.0 529.7 213.0 531.5C214.0 533.3 216.4 537.3 218.2 540.5C220.1 543.7 223.1 549.1 224.9 552.5C231.1 564.4 236.2 571.1 239.4 571.8C240.1 571.9 241.7 572.3 242.8 572.5C245.7 573.1 250.2 573.9 254.8 574.5C256.9 574.8 262.6 575.6 267.2 576.2C275.4 577.4 282.2 578.3 291.6 579.5C296.9 580.1 304.5 582.0 307.7 583.4C310.8 584.8 314.3 588.6 317.8 594.4C319.4 597.0 321.2 600.0 321.9 601.0C323.8 604.2 326.8 609.7 327.5 611.4C328.6 614.1 327.2 614.9 322.5 614.2ZM611.3 612.6C611.2 611.9 610.9 609.7 610.7 607.8C610.3 603.1 608.1 586.9 607.5 583.8C607.2 582.4 606.7 580.0 606.4 578.5C605.8 575.0 603.4 565.2 601.8 559.1L600.5 554.5L602.2 549.1C606.7 534.9 607.5 526.1 607.7 487.5C607.8 472.3 608.1 463.9 608.7 458.0C609.5 450.5 611.1 438.9 611.8 436.1C612.5 433.6 610.8 435.2 609.3 438.6C604.4 449.2 599.8 465.3 596.0 484.8C594.4 493.0 592.3 509.7 591.6 519.0C591.1 525.3 590.5 525.3 587.2 518.8C585.0 514.2 583.7 511.8 579.7 504.8C577.6 500.9 570.4 489.4 566.3 483.0C561.6 475.8 561.6 476.8 565.0 460.0C570.2 434.1 584.6 400.2 599.2 379.8C600.7 377.6 602.0 375.5 602.0 375.1C602.0 374.2 594.3 380.9 588.4 386.8C571.2 404.5 557.1 426.6 549.2 448.2C548.0 451.5 546.8 454.4 546.5 454.7C546.0 455.2 541.6 450.6 532.2 440.2C529.7 437.5 525.8 433.5 523.5 431.3C517.8 425.9 516.9 424.8 517.6 423.1C518.9 419.8 519.4 418.6 520.0 417.0C520.9 414.7 526.4 405.0 530.4 398.5C541.2 381.3 554.2 366.4 571.6 351.0C575.0 348.0 576.7 346.2 576.3 346.1C575.8 346.0 573.2 347.1 570.4 348.5C551.8 358.0 530.9 374.8 518.1 390.7C513.0 396.9 511.3 399.2 506.5 406.5C502.5 412.4 502.6 412.4 499.7 410.2C498.4 409.2 496.0 407.2 494.5 405.8C491.7 403.1 485.1 397.7 482.4 395.7C479.1 393.3 472.0 386.4 472.0 385.6C472.0 382.7 483.5 368.4 494.3 358.0C506.9 345.8 516.1 338.7 531.8 329.4C537.8 325.7 556.9 316.6 561.6 315.0C566.3 313.5 562.1 313.2 554.8 314.5C553.4 314.8 550.5 315.2 548.2 315.5C546.0 315.8 543.6 316.3 542.8 316.5C541.9 316.7 539.5 317.3 537.2 317.8C533.5 318.6 530.0 319.5 521.2 322.1C510.6 325.1 494.4 333.0 485.9 339.1C480.8 342.7 480.4 342.3 483.4 336.2C492.4 317.2 505.4 303.7 525.8 292.4C535.4 287.0 542.6 284.2 556.5 280.5C573.5 276.0 607.3 272.5 627.6 273.2C640.1 273.6 640.1 273.6 640.8 277.0C642.0 283.0 645.6 287.4 651.4 290.2C654.5 291.6 655.2 291.7 660.2 291.7C665.5 291.7 665.9 291.7 668.8 290.2C670.4 289.3 672.9 287.4 674.3 285.9C676.9 283.1 679.5 279.9 679.5 279.4C679.5 279.2 678.4 278.7 677.1 278.2C672.5 276.5 668.2 274.9 667.2 274.5C663.0 272.7 647.7 268.5 641.8 267.6C630.6 265.8 622.9 265.9 587.5 268.0C577.5 268.7 560.1 268.4 554.6 267.5C535.4 264.3 523.9 259.8 510.7 250.0C506.6 246.9 499.2 239.5 495.9 235.0C493.2 231.3 490.0 226.0 490.0 225.3C490.0 224.7 491.6 225.2 496.4 226.9C505.7 230.4 516.1 233.2 522.8 234.0C524.7 234.3 528.8 234.8 532.0 235.2C547.1 237.2 568.8 237.4 594.8 235.7C613.0 234.5 637.1 234.6 647.5 235.9C655.0 236.9 665.5 238.8 670.0 240.0C675.7 241.5 677.9 242.2 682.1 243.8C692.3 247.8 698.3 251.5 704.2 257.3C707.9 261.0 709.6 263.9 710.8 268.3C711.6 271.6 711.8 271.8 715.5 272.5C727.0 274.8 733.7 276.9 741.5 280.8C759.3 289.7 768.8 304.7 767.8 322.5C767.3 332.2 762.8 344.9 757.2 352.6C754.8 355.9 754.2 355.7 753.8 351.6C752.2 335.8 744.0 325.5 729.2 320.8C713.6 315.7 699.1 315.6 671.0 320.0C659.9 321.8 659.9 321.8 657.2 326.8C656.9 327.3 656.4 328.2 656.0 328.9C655.0 330.4 655.6 330.7 658.6 330.0C676.3 326.1 685.1 324.7 696.0 324.0C709.5 323.1 722.3 324.9 731.5 329.1C734.2 330.3 740.0 334.0 740.0 334.5C740.0 334.6 735.3 335.1 729.6 335.4C711.3 336.6 702.7 338.7 691.5 344.8C683.3 349.3 673.9 358.5 668.2 367.7C656.6 385.9 653.6 411.1 659.3 443.0C660.0 447.0 660.7 451.6 661.0 453.2C661.2 454.9 662.1 460.9 662.9 466.5C665.2 481.7 665.6 487.1 665.6 499.2C665.6 510.2 664.9 518.2 663.3 526.5C660.7 539.6 658.1 549.0 657.0 549.0C656.2 549.0 656.1 548.2 655.5 540.7C654.4 524.9 652.5 515.2 647.4 500.2C644.7 492.1 638.8 479.0 637.9 479.0C637.3 479.0 637.4 480.5 638.9 492.0C642.2 517.6 641.6 544.0 637.2 563.2C632.9 582.2 625.8 597.9 616.0 610.0C614.2 612.2 612.5 614.0 612.2 614.0C611.8 614.0 611.5 613.4 611.3 612.6ZM881.7 567.3C884.1 566.2 887.8 562.8 889.0 560.5C891.1 556.3 890.6 550.2 888.0 546.5C886.0 543.8 882.3 542.0 878.0 541.6C874.9 541.4 874.2 541.5 871.8 542.7C866.5 545.3 864.6 548.2 864.1 554.5C863.6 561.4 866.0 566.0 870.8 567.8C873.2 568.7 878.9 568.4 881.7 567.3ZM384.2 550.7C382.6 550.0 377.8 548.2 373.5 546.7C365.6 543.9 359.3 541.6 352.5 539.0C350.4 538.2 347.3 537.2 345.5 536.7C343.7 536.2 340.6 535.1 338.5 534.2C336.4 533.4 334.1 532.5 333.2 532.3C331.6 531.9 326.7 530.2 325.4 529.5C324.9 529.2 324.3 529.0 324.0 529.0C322.7 529.0 312.4 524.6 308.5 522.3C303.4 519.4 300.3 516.5 298.9 513.5C298.4 512.3 297.0 509.3 296.0 507.0C294.9 504.7 294.0 502.5 294.0 502.3C294.0 502.0 293.3 500.0 292.4 497.8C288.3 487.1 286.3 481.9 284.9 478.5C284.1 476.5 283.1 473.7 282.7 472.4C281.6 468.7 277.3 459.9 275.9 458.7C275.3 458.1 273.4 457.0 271.7 456.2C270.1 455.5 268.1 454.6 267.2 454.2C266.4 453.9 264.6 453.1 263.2 452.6C260.2 451.4 250.7 446.9 249.0 445.8C247.3 444.8 233.5 438.0 224.8 434.0C220.9 432.2 215.7 429.7 213.2 428.4C207.0 425.0 197.0 420.2 192.1 418.2C181.7 413.8 172.0 408.6 170.0 406.2C168.4 404.4 165.0 395.4 163.7 389.7C162.8 385.6 159.6 375.5 157.3 369.5C156.4 367.2 154.9 363.1 154.0 360.5C153.1 357.9 152.1 354.8 151.6 353.6C150.8 351.2 151.0 350.0 152.5 350.0C153.8 350.0 161.6 354.1 170.2 359.2C173.6 361.2 178.4 364.0 181.0 365.5C183.6 367.0 186.2 368.6 186.8 369.0C187.3 369.5 190.4 371.5 193.8 373.5C197.1 375.5 200.1 377.4 200.5 377.8C201.3 378.4 209.5 383.2 214.0 385.6C221.7 389.8 223.4 390.8 224.8 391.8C225.6 392.5 226.5 393.0 226.7 393.0C226.8 393.0 228.2 393.8 229.8 394.8C231.3 395.8 236.5 399.0 241.4 402.0C246.3 404.9 253.1 409.1 256.5 411.3C270.6 420.1 270.2 419.8 281.5 425.9C283.3 426.9 285.1 427.9 285.5 428.2C285.9 428.6 288.4 430.1 291.0 431.7C293.6 433.3 297.2 435.6 299.0 436.7C300.8 437.9 303.5 439.4 305.0 440.2C306.5 441.0 308.1 441.9 308.5 442.3C308.9 442.6 312.3 444.7 316.0 446.9C319.7 449.1 325.3 452.4 328.5 454.2C333.7 457.4 345.0 464.5 355.2 471.3C357.4 472.7 361.6 475.3 364.4 477.0C370.9 480.8 379.3 486.4 381.9 488.5C384.7 490.7 385.9 493.4 386.5 498.8C386.7 501.2 387.6 509.6 388.4 517.2C390.4 535.7 390.9 540.7 391.3 546.9L391.7 552.0L389.5 552.0C388.2 552.0 385.9 551.4 384.2 550.7ZM1103.3 517.9C1106.1 517.2 1109.6 514.2 1111.0 511.1C1112.6 507.8 1112.6 500.8 1111.2 497.5C1108.1 490.7 1099.2 487.6 1092.2 490.9C1087.1 493.4 1084.3 497.4 1083.7 503.4C1083.2 507.7 1084.1 510.5 1086.9 513.6C1091.0 518.1 1096.7 519.6 1103.3 517.9ZM284.8 513.8C283.6 513.4 279.2 511.7 274.8 509.8C270.5 508.0 265.4 506.0 263.6 505.4C261.8 504.9 258.9 503.8 257.2 503.0C250.9 500.1 249.1 499.3 245.5 498.0C243.4 497.2 237.9 495.1 233.1 493.3C228.3 491.5 224.2 490.0 223.8 490.0C223.5 490.0 222.0 489.4 220.5 488.7C219.0 488.0 215.8 486.7 213.5 485.9C197.9 480.3 197.4 480.1 182.2 473.5C178.9 472.1 173.0 469.8 169.0 468.5C165.1 467.1 161.4 465.7 160.8 465.3C160.2 465.0 158.5 464.2 157.0 463.8C155.5 463.3 152.9 462.2 151.2 461.5C149.5 460.7 147.0 459.7 145.6 459.3C144.1 458.9 141.6 457.9 140.0 457.1C138.4 456.2 135.7 455.1 133.9 454.6C129.4 453.2 125.4 451.3 124.3 450.1C123.4 449.1 123.4 449.0 124.2 447.8C125.2 446.3 130.9 441.8 136.5 438.2C138.6 436.9 141.2 435.1 142.3 434.2C143.4 433.4 145.5 431.9 147.0 431.0C152.9 427.1 159.5 422.5 164.5 418.6C167.1 416.6 168.9 416.5 172.3 418.3C174.8 419.6 182.7 423.1 187.5 425.0C188.9 425.6 192.4 427.2 195.2 428.6C208.3 435.2 216.4 439.1 224.5 442.8C227.1 443.9 231.5 446.0 234.2 447.4C240.3 450.4 241.4 450.9 252.9 456.0C261.9 460.0 265.3 461.7 268.4 463.7C270.2 464.9 271.7 468.0 275.2 478.2C283.1 500.7 283.1 500.6 287.7 509.4C290.3 514.4 289.7 515.4 284.8 513.8ZM378.7 470.9C377.6 470.4 374.2 468.1 371.0 465.9C365.1 461.8 354.9 455.1 350.0 452.0C348.5 451.0 345.4 448.9 343.2 447.2C341.1 445.5 337.9 443.3 336.2 442.3C334.6 441.2 332.4 439.7 331.2 439.0C330.1 438.3 324.1 434.4 317.8 430.5C311.4 426.6 303.3 421.5 299.8 419.1C296.2 416.8 291.9 413.9 290.0 412.7C288.2 411.6 285.5 409.7 284.0 408.7C282.5 407.6 279.4 405.6 277.2 404.3C272.1 401.1 260.1 393.1 258.8 392.0C258.2 391.6 254.8 389.3 251.2 387.1C244.4 382.8 228.7 372.5 222.3 368.1C220.2 366.7 217.8 365.2 216.9 364.7C216.0 364.2 213.4 362.7 211.2 361.3C209.1 359.8 206.9 358.5 206.5 358.3C205.6 357.9 203.5 356.5 195.2 351.0C191.6 348.6 183.7 343.3 177.5 339.3C159.2 327.2 146.5 318.6 143.0 316.0C137.7 312.0 130.6 307.0 130.2 307.0C130.1 307.0 127.3 305.3 124.2 303.2C116.4 298.1 116.5 297.6 124.7 293.3C129.8 290.5 152.9 277.3 158.6 273.8C164.1 270.5 164.9 270.2 167.6 271.4C169.9 272.5 177.7 277.5 186.5 283.6C199.6 292.6 202.9 294.9 206.2 297.8C208.2 299.4 211.8 302.3 214.3 304.1C224.0 311.5 237.3 321.4 241.0 324.0C252.4 332.0 256.2 334.7 266.9 341.9C280.9 351.3 280.7 351.3 282.3 350.6C283.2 350.2 283.5 349.6 283.5 348.4C283.5 346.0 282.5 344.8 276.8 341.1C272.5 338.2 260.7 329.4 260.0 328.5C259.9 328.4 256.9 326.2 253.5 323.8C247.0 319.1 236.8 311.5 220.8 299.3C215.5 295.3 208.6 290.2 205.2 287.9C199.7 284.1 195.7 281.2 188.5 275.8C187.0 274.6 184.4 272.8 182.8 271.8C177.5 268.4 170.7 263.1 169.3 261.4C168.2 259.9 167.9 258.6 167.2 253.7C166.8 250.5 166.4 247.7 166.2 247.5C166.1 247.3 165.8 245.8 165.6 244.2C165.3 242.6 164.7 239.3 164.3 237.0C163.9 234.7 163.4 231.5 163.3 230.0C163.1 228.5 162.3 223.8 161.5 219.5C160.7 215.2 159.7 209.3 159.2 206.2C158.8 203.2 157.8 197.9 157.0 194.4C155.3 187.2 155.2 186.4 156.2 185.5C157.2 184.7 158.0 185.2 166.8 192.2C170.9 195.5 176.0 199.6 178.2 201.2C180.3 202.9 184.6 206.3 187.7 208.8C190.8 211.2 196.3 215.6 200.0 218.4C203.7 221.2 208.7 225.1 211.0 227.1C213.3 229.0 216.9 231.8 219.0 233.4C221.0 234.9 225.8 238.7 229.6 241.8C233.3 245.0 237.9 248.7 239.7 250.1C241.5 251.6 245.8 255.2 249.3 258.1C263.4 269.8 265.2 271.3 268.4 273.6C273.2 277.1 275.8 279.3 280.8 283.9C291.8 294.3 293.7 296.3 294.6 298.4C295.7 300.8 296.9 310.5 298.5 329.0C298.8 332.4 299.3 337.1 299.5 339.2C300.1 344.0 301.8 358.9 302.5 365.2C303.5 373.9 304.5 376.1 310.1 381.2C313.4 384.3 322.3 391.5 324.3 392.8C328.0 395.1 340.6 405.1 347.4 411.2C350.2 413.7 357.7 419.6 363.9 424.2C377.8 434.7 378.3 435.3 379.1 442.4C379.4 445.0 380.0 450.2 380.6 453.8C381.2 457.3 381.7 461.0 381.8 462.0C381.9 463.0 382.3 465.3 382.6 467.2C383.1 470.4 383.1 470.7 382.2 471.3C381.1 472.2 381.1 472.2 378.7 470.9ZM114.1 442.4C113.9 442.0 113.3 441.1 112.9 440.2C112.5 439.4 111.8 438.1 111.3 437.2C110.1 435.0 106.0 426.0 106.0 425.6C106.0 425.5 105.0 423.0 103.7 420.3C102.4 417.5 100.7 413.8 99.9 412.0C99.1 410.2 97.4 406.7 96.2 404.2C95.0 401.7 94.0 399.5 94.0 399.4C94.0 399.2 93.4 398.2 92.7 397.1C91.5 395.4 86.0 384.4 86.0 383.8C86.0 383.6 85.3 382.0 84.4 380.1C83.6 378.3 82.5 375.6 82.0 374.2C80.2 369.4 78.1 364.7 74.1 356.8C71.9 352.4 68.5 345.1 66.5 340.8C64.5 336.4 62.2 331.5 61.5 330.0C60.7 328.5 59.8 326.4 59.5 325.2C59.1 324.1 57.5 320.1 55.9 316.2C54.3 312.4 52.3 307.6 51.5 305.5C49.9 301.3 46.2 292.9 44.5 289.6C43.1 286.7 43.3 285.3 45.3 285.1C46.9 284.9 51.7 287.4 58.4 291.9C60.1 293.1 61.6 294.0 61.7 294.0C62.0 294.0 69.4 298.3 75.8 302.3C78.8 304.1 82.8 306.6 84.8 307.6C89.8 310.5 95.4 313.9 97.9 315.6C99.1 316.4 101.6 317.9 103.6 318.9C108.5 321.4 113.2 324.4 132.5 336.8C142.0 343.0 142.6 343.7 143.2 349.2C143.7 352.8 145.7 360.6 148.2 368.2C153.2 383.7 154.3 387.1 156.2 394.0C157.0 396.6 158.0 400.0 158.6 401.5C159.1 403.0 159.7 405.9 159.9 407.9C160.1 411.5 160.1 411.6 158.5 413.3C157.6 414.2 155.0 416.2 152.8 417.6C140.1 425.7 128.5 433.7 122.9 438.1C116.8 442.9 115.1 443.7 114.1 442.4ZM1224.3 374.0C1231.4 370.9 1234.8 362.7 1232.0 355.4C1230.8 352.2 1229.0 350.1 1226.0 348.2C1223.9 346.9 1223.4 346.8 1219.0 346.8C1215.1 346.8 1213.9 347.0 1212.2 347.8C1206.1 351.1 1202.5 358.6 1204.0 364.8C1206.0 373.2 1215.9 377.7 1224.3 374.0ZM912.2 312.9C915.7 311.6 919.1 308.3 920.2 305.2C921.4 301.6 921.3 296.1 919.8 292.9C917.7 288.0 913.2 285.3 907.5 285.3C902.9 285.4 900.7 286.3 897.5 289.4C893.1 293.9 891.9 299.1 894.1 304.8C896.9 312.3 904.7 315.8 912.2 312.9ZM108.5 290.9C107.5 290.2 106.6 289.2 106.4 288.5C105.9 286.8 104.8 283.6 103.3 279.0C102.6 276.9 101.4 273.4 100.8 271.2C99.3 266.4 97.6 262.0 95.6 257.2C94.7 255.3 94.0 253.3 94.0 252.8C94.0 252.2 93.6 251.1 93.0 250.2C92.5 249.3 91.7 247.0 91.2 244.9C90.7 242.9 89.6 239.6 88.7 237.5C87.9 235.4 87.0 232.8 86.8 231.8C86.6 230.7 85.7 228.1 84.8 226.0C83.9 223.9 82.7 220.9 82.3 219.2C81.8 217.6 81.2 216.0 81.0 215.8C80.8 215.5 80.0 213.1 79.3 210.5C78.6 207.9 77.7 205.0 77.3 204.0C76.9 203.0 76.2 200.7 75.7 198.8C75.3 196.8 74.4 194.2 73.7 193.0C72.6 190.8 72.2 189.5 70.7 184.0C70.3 182.5 69.8 181.1 69.5 180.8C69.3 180.5 68.5 178.3 67.7 176.0C67.0 173.7 66.0 171.1 65.6 170.2C65.2 169.4 64.3 166.9 63.7 164.8C62.5 160.3 58.4 148.7 57.6 147.2C56.9 145.9 53.6 136.5 52.4 132.2C51.9 130.3 51.0 127.6 50.4 126.2C49.6 124.1 48.5 120.6 46.5 113.5C46.2 112.5 45.7 110.6 45.3 109.2C44.9 107.9 44.0 104.7 43.3 102.2C42.5 99.8 42.0 97.3 42.1 96.7C42.6 94.5 46.0 96.5 57.0 105.5C59.9 107.8 63.0 110.3 64.0 111.0C66.1 112.4 72.7 117.9 78.5 123.0C80.9 125.1 85.1 128.4 87.8 130.5C94.6 135.6 108.2 146.4 116.3 153.1C120.8 156.8 127.2 161.8 128.8 162.7C133.3 165.6 144.3 175.7 145.0 177.7C145.6 179.3 145.8 180.3 147.7 191.0C148.4 194.7 149.6 201.2 150.4 205.5C151.2 209.8 152.3 215.7 152.7 218.8C153.2 221.8 153.8 225.4 154.0 226.8C154.3 228.1 155.1 233.6 155.8 239.0C156.5 244.4 157.6 251.1 158.3 253.9C159.5 259.1 159.7 260.9 159.2 262.8C158.9 263.9 155.6 266.5 151.2 269.1C145.3 272.6 136.2 277.9 133.5 279.3C132.0 280.2 128.7 282.1 126.2 283.6C120.0 287.4 111.6 292.0 110.8 292.0C110.4 292.0 109.4 291.5 108.5 290.9ZM1146.6 260.3C1156.5 254.5 1156.3 239.6 1146.2 234.7C1143.7 233.5 1143.1 233.4 1139.6 233.6C1131.6 234.2 1126.9 238.9 1126.2 247.1C1125.6 253.5 1129.0 259.1 1134.9 261.3C1137.9 262.5 1143.9 262.0 1146.6 260.3ZM1037.6 144.7C1042.7 142.7 1046.2 137.2 1046.1 131.6C1045.7 117.0 1025.9 111.6 1019.7 124.3C1018.0 127.7 1017.5 133.3 1018.5 136.6C1019.9 141.5 1026.1 145.5 1032.1 145.5C1034.0 145.5 1036.4 145.1 1037.6 144.7ZM1200.1 89.4C1206.9 86.5 1209.6 77.6 1205.7 70.5C1202.5 64.6 1195.8 61.8 1189.4 63.7C1183.0 65.6 1180.0 69.7 1180.0 76.8C1180.0 79.8 1180.3 81.5 1181.0 83.2C1183.8 89.9 1192.5 92.7 1200.1 89.4Z";
